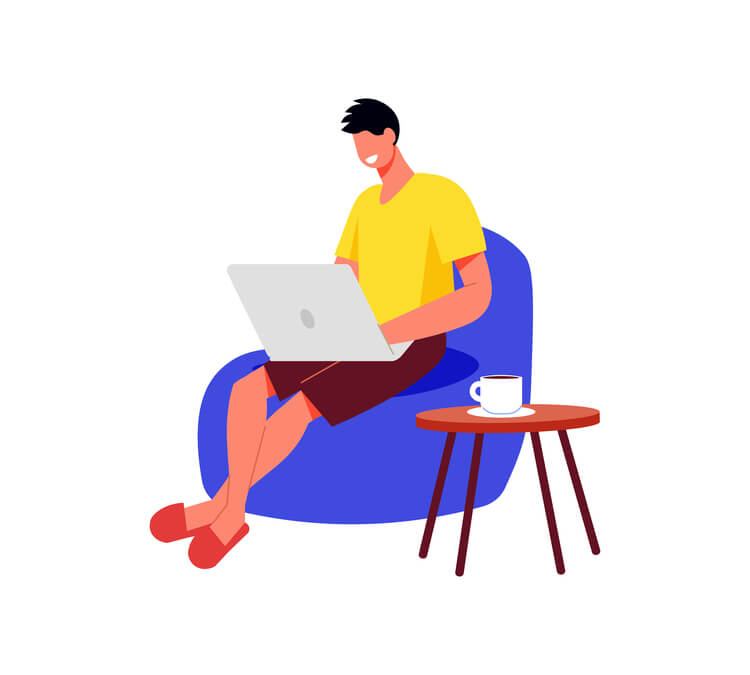
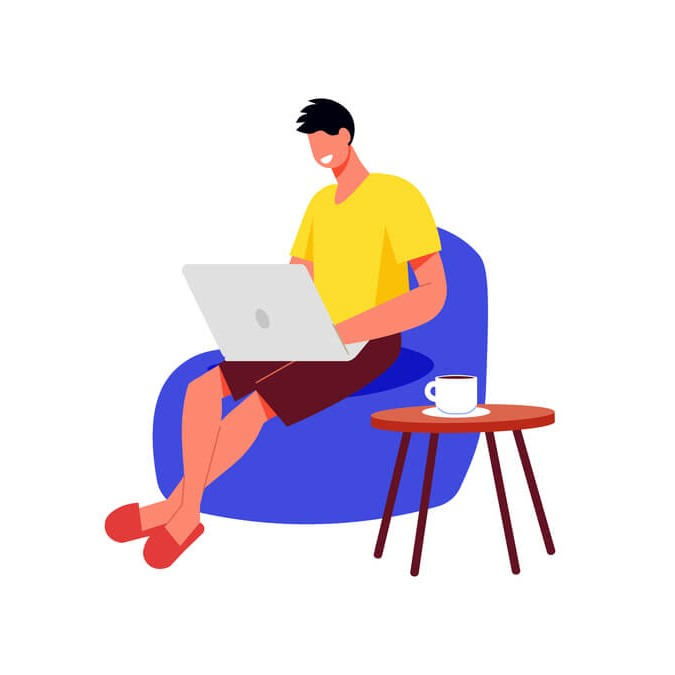
open site on click card,optimize home, fix button on favorites page (#10)

diff --git a/src/components/card/Card.js b/src/components/card/Card.js
@@ -2,10 +2,25 @@ import StartBtn from '../StarBtn';
 import ContextMenuBtn from '../context-menu/ContexMenuBtn';
 import { useState } from 'react';
 import style from './Card.module.css';
+import { useSingleAndDoubleClick } from '../../hooks/use-single-and-doubleclick';
 
 export default function Card({ author, url, photo }) {
   const [selected, setSelected] = useState(localStorage.getItem(url));
   const [liked, setLiked] = useState(false);
+
+  const click = useSingleAndDoubleClick(
+    () => {
+      Object.assign(document.createElement('a'), {
+        target: '_blank',
+        href: url,
+      }).click();
+    },
+    (e) => {
+      e.stopPropagation();
+      like();
+      handleClick(true);
+    }
+  );
 
   const handleClick = (like) => {
     if (like) {
@@ -13,7 +28,6 @@ export default function Card({ author, url, photo }) {
     } else {
       localStorage.removeItem(url);
     }
-
     setSelected(like);
   };
 
@@ -25,15 +39,7 @@ export default function Card({ author, url, photo }) {
   return (
     <div className={style.card}>
       {liked && <i className='fas fa-star like-btn selected fade-like'></i>}
-      <img
-        onDoubleClick={(e) => {
-          e.stopPropagation();
-          like();
-          handleClick(true);
-        }}
-        src={photo}
-        alt=''
-      />
+      <img onClick={click} src={photo} alt={`${author} webiste preview`} />
       <div className={style.card__info}>
         <h1>{author}</h1>
         <ContextMenuBtn id={url} />

diff --git a/src/pages/add-site/AddSite.js b/src/pages/add-site/AddSite.js
@@ -118,21 +118,21 @@ export default function AddSite() {
             type='text'
             name='author'
           />
-          <label className='label' htmlFor='ok'>
+          <label className='label' htmlFor='url'>
             Author*
           </label>
         </div>
         <div className='input-group'>
           <input
             className='input'
-            id='asd'
+            id='url'
             onChange={handleFormChange}
             placeholder='&nbsp;'
             type='text'
             value={form.url}
             name='url'
           />
-          <label className='label' htmlFor='asd'>
+          <label className='label' htmlFor='conditions'>
             Website Url*
           </label>
         </div>

diff --git a/src/pages/favorites/Favorites.js b/src/pages/favorites/Favorites.js
@@ -1,7 +1,7 @@
 import { useEffect, useState } from 'react';
 import Card from '../../components/card/Card';
 import { useDispatch } from 'react-redux';
-import { hide, show } from '../../features/navSlice';
+import { hide, show, updateBtn } from '../../features/navSlice';
 
 export default function Favorites() {
   const [cards, setCards] = useState([]);
@@ -11,6 +11,13 @@ export default function Favorites() {
     if (window.innerWidth > 1080) {
       dispatch(show());
     }
+    dispatch(
+      updateBtn({
+        show: true,
+        text: 'EXPLORE',
+        path: '/daily-mix',
+      })
+    );
   }, []);
 
   useEffect(() => {

diff --git a/src/hooks/use-single-and-doubleclick.js b/src/hooks/use-single-and-doubleclick.js
@@ -1,0 +1,20 @@
+import { useState, useEffect } from 'react';
+
+export function useSingleAndDoubleClick(actionSimpleClick, actionDoubleClick, delay = 200) {
+  const [click, setClick] = useState(0);
+  const [event, setEvent] = useState({});
+
+  useEffect(() => {
+    const timer = setTimeout(() => {
+      if (click === 1) actionSimpleClick(event);
+      setClick(0);
+    }, delay);
+    if (click === 2) actionDoubleClick(event);
+    return () => clearTimeout(timer);
+  }, [click]);
+
+  return (e) => {
+    setEvent((ev) => e);
+    setClick((prev) => prev + 1);
+  };
+}

diff --git a/src/helpers.js b/src/helpers.js
@@ -9,5 +9,5 @@ export const termAndConditions =
   'The names, the urls and the images you upload on devportfolios.net are stored in a' +
   ' database, they are visible and downloadable by anyone through the site and the APIs,' +
   ' devportfolios.net and his author assumes no responsibility for how this data will be' +
-  ' used by third parties. If you find the site uploaded to devportfolio.net and want to' +
+  ' used by third parties. If you find your site uploaded on devportfolio.net and want to' +
   ' remove it, simply contact the author and he will do it.';

diff --git a/src/pages/home/Home.module.css b/src/pages/home/Home.module.css
@@ -1,5 +1,6 @@
 .img {
   width: 100%;
+  aspect-ratio: 1;
 }
 
 .container {
